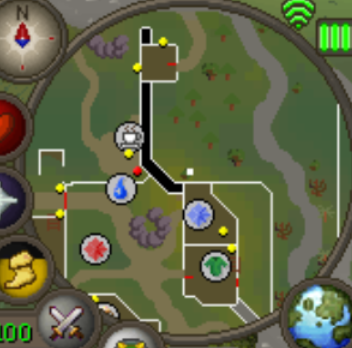
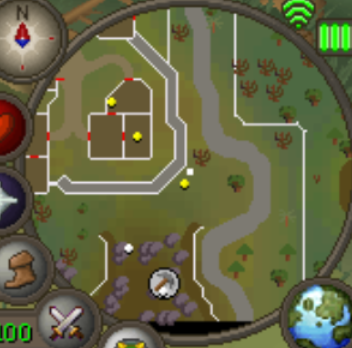
Started on quad client work. Able to grab game portions and regions of each quad

diff --git a/tools/session.py b/tools/session.py
@@ -1,0 +1,76 @@
+import cv2
+import numpy as np
+
+
+# Custom Library
+import tools.osrs_screen_grab as grabber
+from tools.screen_pos import Pos, Box
+from tools import config
+
+
+class Session:
+    def __init__(self, row, col):
+        self.row = row
+        self.col = col
+
+        tl = Pos(
+            0 + (self.col * config.GAME_WIDTH) + (self.col * config.PADDING_LEFT) + (self.col * config.PADDING_RIGHT) + config.PADDING_LEFT,
+            0 + (self.row * config.GAME_HEIGHT) + (self.row * config.PADDING_TOP) + (self.row * config.PADDING_BOTTOM) + config.PADDING_TOP
+        )
+        self.screen_bounds = Box(
+            tl,
+            Pos(
+                tl.x + config.GAME_WIDTH,
+                tl.y + config.GAME_HEIGHT
+            )
+        )
+    
+
+    def find_in_region(self, region, item_ref):
+        screen = grabber.grab_region("", region)
+        _ = np.array(screen)
+        screen = np.array(screen.convert("L"))
+        template = cv2.imread(item_ref, 0)
+        w, h = template.shape[::-1]
+
+        res = cv2.matchTemplate(screen, template, cv2.TM_CCOEFF_NORMED)
+        threshold = 0.8
+        loc = np.where(res >= threshold)
+        if len(list(zip(*loc[::-1]))) < 1:
+            print("Couldn't find item on screen... fuck.")
+            return None
+        
+        for pt in zip(*loc[::-1]):
+            if config.DEBUG:
+                cv2.rectangle(_, pt, (pt[0] + w, pt[1] + h), (25, 0, 255), 2)
+                cv2.imwrite('debug/region_%s.png' % item_ref.split("/")[-1].split(".")[0], _)
+            
+            return Pos(
+                pt[0] + (w / 2),
+                pt[1] + (h / 2)
+            )
+
+
+    def find_in_screen(self, item_ref):
+        screen = grabber.grab_fullscreen()
+        _ = np.array(screen)
+        screen = np.array(screen.convert("L"))
+        template = cv2.imread(item_ref, 0)
+        w, h = template.shape[::-1]
+
+        res = cv2.matchTemplate(screen, template, cv2.TM_CCOEFF_NORMED)
+        threshold = 0.8
+        loc = np.where(res >= threshold)
+        if len(list(zip(*loc[::-1]))) < 1:
+            print("Couldn't find item on screen... fuck.")
+            return None
+        
+        for pt in zip(*loc[::-1]):
+            if config.DEBUG:
+                cv2.rectangle(_, pt, (pt[0] + w, pt[1] + h), (25, 0, 255), 2)
+                cv2.imwrite('debug/screen_%s.png' % item_ref.split("/")[-1].split(".")[0], _)
+            
+            return Pos(
+                pt[0] + (w / 2),
+                pt[1] + (h / 2)
+            )

diff --git a/tools/osrs_screen_grab.py b/tools/osrs_screen_grab.py
@@ -1,6 +1,9 @@
 from PIL import ImageGrab
 from . import config
-from .screen_pos import Pos
+from .screen_pos import Pos, Box
+
+
+INVENTORY = Box(Pos(612, 195), Pos(791, 444))
 
 # Constants
 MAP = {
@@ -24,6 +27,29 @@ INV_ICON = {
 }
 
 
+
+def grab(bounding_box, region=None, file_name="default_grab", save=False):
+    # if region is not None:
+    #     bounding_box.subdivision(region)
+    if region is None:
+        img = ImageGrab.grab(bbox=(bounding_box.tl.x, bounding_box.tl.y, bounding_box.br.x, bounding_box.br.y)).convert('RGB')
+    else:
+        img = ImageGrab.grab(bbox=(
+            bounding_box.tl.x + region.tl.x,
+            bounding_box.tl.y + region.tl.y,
+            bounding_box.tl.x + region.br.x,
+            bounding_box.tl.y + region.br.y
+        )).convert('RGB')
+    # img = ImageGrab.grab(bbox=(bounding_box.tl.x, bounding_box.tl.y, bounding_box.br.x, bounding_box.br.y)).convert('RGB')
+    if save:
+        file_path = '%s.png' % file_name
+        img.save(file_path)
+        return file_path
+    else:
+        return img
+
+
+# Depricated if not using Session
 def grab_fullscreen(file_name="current", save=False):
     img = ImageGrab.grab(bbox=(0, 0, config.SCREEN_WIDTH, config.SCREEN_HEIGHT)).convert('RGB')
     if save:
@@ -33,7 +59,7 @@ def grab_fullscreen(file_name="current", save=False):
     else:
         return img
 
-
+# Depricated if not using Session
 def grab_region(file_name="undefined", screen_region=MAP, save=False):
     img = ImageGrab.grab(bbox=(screen_region["TL"].x, screen_region["TL"].y, screen_region["BR"].x, screen_region["BR"].y)).convert('RGB')
     if save:

diff --git a/tools/screen_pos.py b/tools/screen_pos.py
@@ -18,7 +18,19 @@ class Pos:
         return self
 
 
-    def add(self, x1, y1):
+    def add(self, p1):
+        self.x += p1.x
+        self.y += p1.y
+        return self
+
+
+    def subtract(self, p1):
+        self.x -= p1.x
+        self.y -= p1.y
+        return self
+
+
+    def add_raw(self, x1, y1):
         self.x += x1
         self.y += y1
         return self
@@ -42,6 +54,12 @@ class Box:
         self.width = br.x - tl.x
         self.height = br.y - tl.y
 
+
+    def subdivision(self, b1):
+        tmp = self.tl
+        self.tl.add(b1.tl)
+        self.br = tmp.add(b1.br)
+        return self
 
     def center(self):
         return Pos(

diff --git a/inventory.py b/inventory.py
@@ -39,7 +39,7 @@ def has_amount(reference_image, limit):
 def find(reference_img):
     pos = screen_search.find_in_region(grabber.INV, reference_img)
     if pos is not None:
-        pos.add(grabber.INV["TL"].x, grabber.INV["TL"].y)
+        pos.add_raw(grabber.INV["TL"].x, grabber.INV["TL"].y)
     return pos
 
 

diff --git a/tools/config.py b/tools/config.py
@@ -1,6 +1,14 @@
 SCREEN_WIDTH = 1920
 SCREEN_HEIGHT = 1080
 
+PADDING_TOP = 42
+PADDING_LEFT = 3
+PADDING_RIGHT = 3
+PADDING_BOTTOM = 2
+
+GAME_WIDTH = 846
+GAME_HEIGHT = 476
+
 SCALE_WIDTH = 480
 
-DEBUG = True
+DEBUG = False

diff --git a/account.py b/account.py
@@ -4,7 +4,6 @@ import random
 import time
 
 # Custom library
-import tools.osrs_screen_grab as grabber
 from tools.screen_pos import Pos, Box
 import bot
 from tools import config
